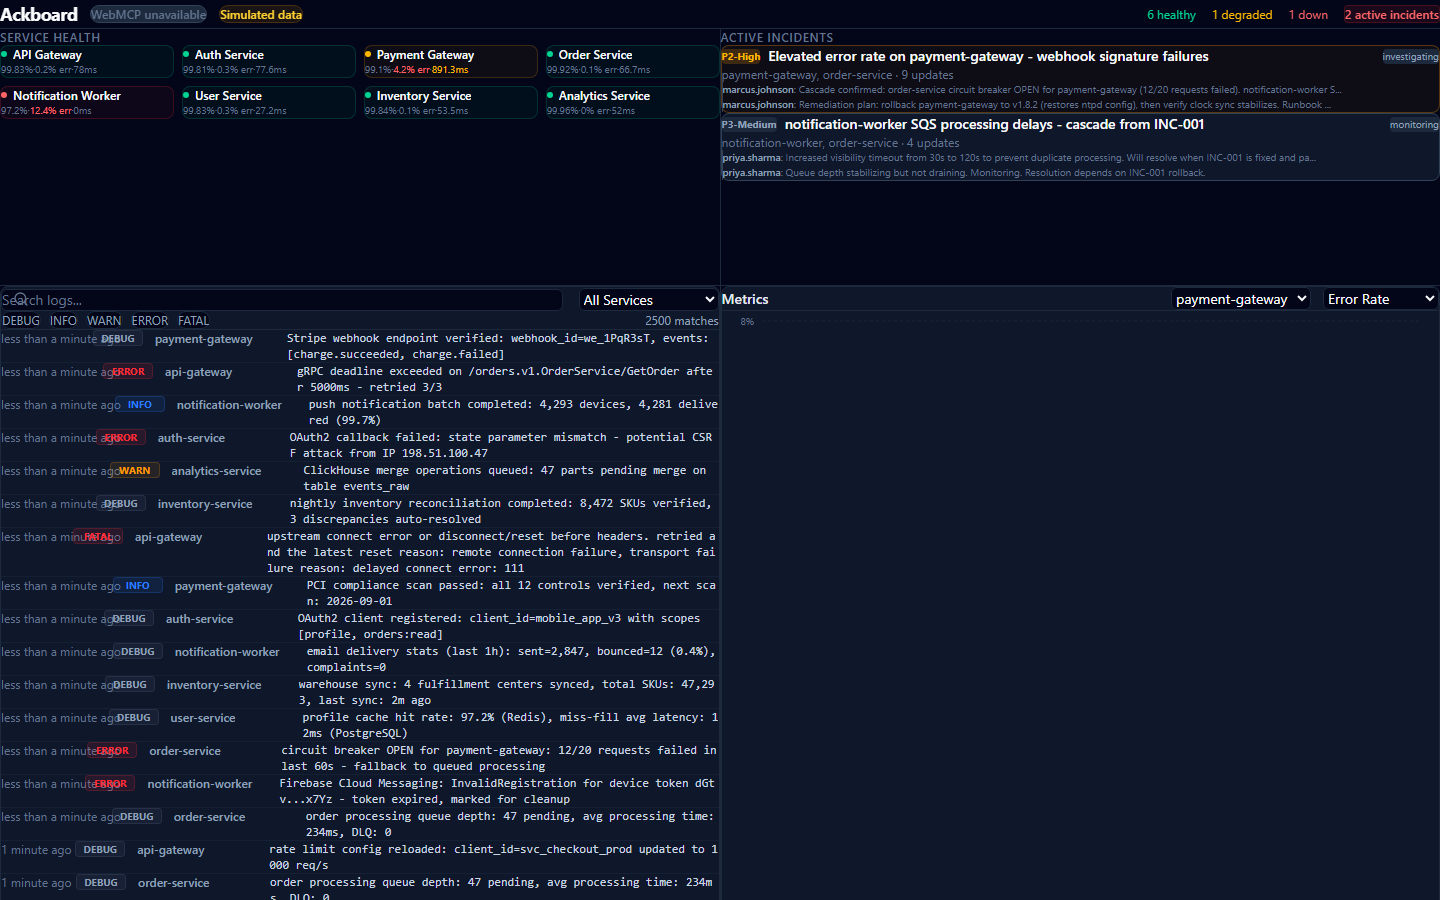
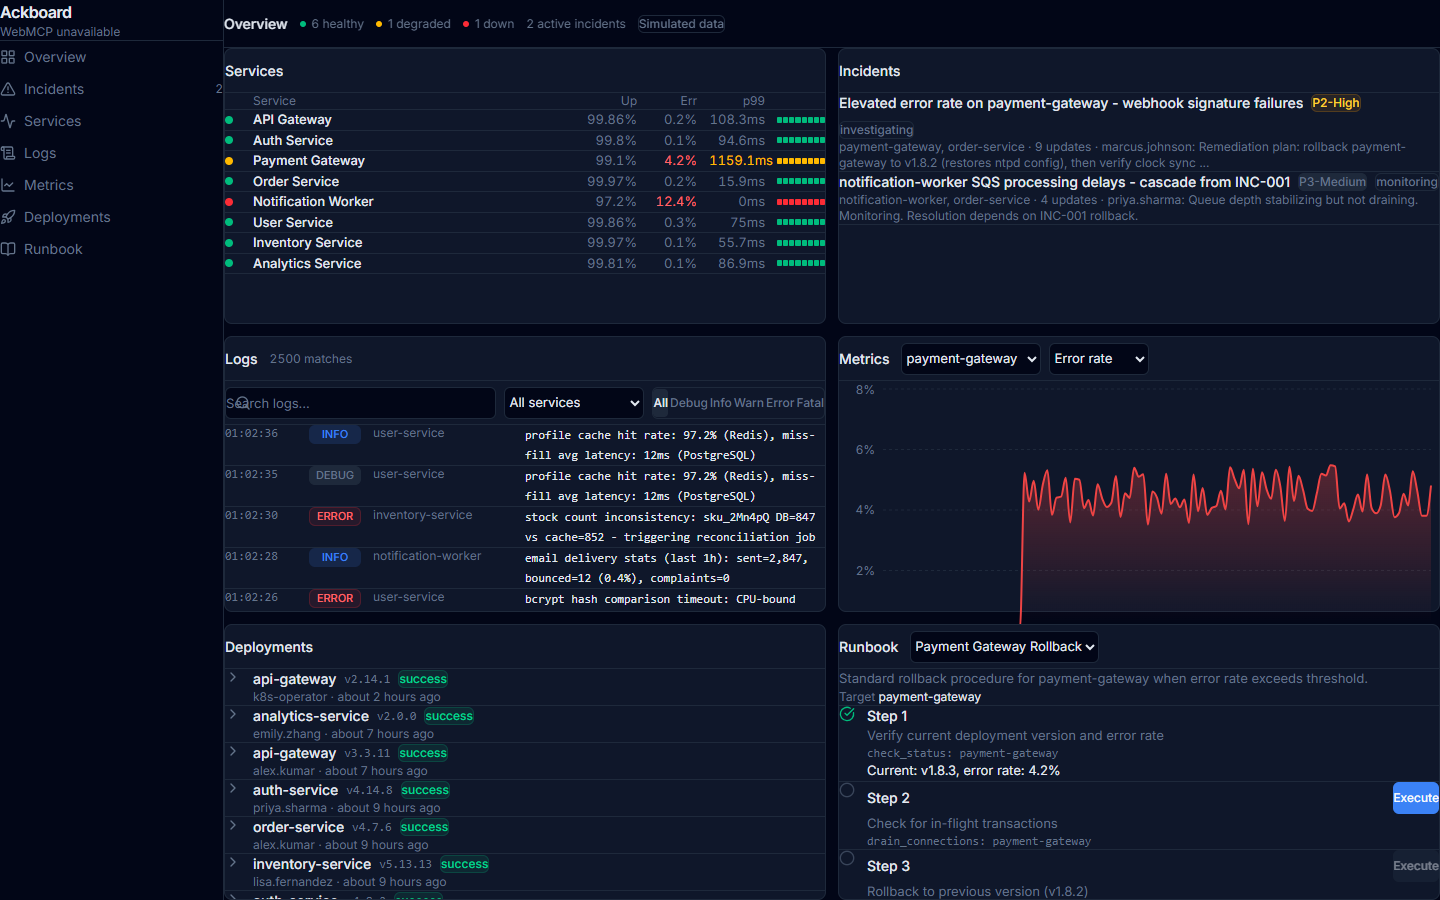
refresh dashboard screenshots

diff --git a/scripts/capture-docs.ts b/scripts/capture-docs.ts
@@ -1,0 +1,32 @@
+import path from 'node:path';
+import fs from 'node:fs';
+import { launchChrome, ensureDir, APP_ROOT, LIVE_URL } from './verify-lib.ts';
+
+async function main() {
+  const dest = path.join(APP_ROOT, 'docs', 'screenshots');
+  ensureDir(dest);
+  const { context, userDataDir } = await launchChrome({ enableWebmcp: false, headless: true });
+  const page = await context.newPage();
+
+  await page.setViewportSize({ width: 1440, height: 900 });
+  await page.goto(LIVE_URL, { waitUntil: 'networkidle' });
+  await page.waitForTimeout(1000);
+  const desktop = path.join(dest, 'desktop.png');
+  await page.screenshot({ path: desktop, fullPage: false });
+  console.log('saved', desktop);
+
+  await page.setViewportSize({ width: 390, height: 844 });
+  await page.goto(LIVE_URL, { waitUntil: 'networkidle' });
+  await page.waitForTimeout(600);
+  const mobile = path.join(dest, 'mobile.png');
+  await page.screenshot({ path: mobile, fullPage: false });
+  console.log('saved', mobile);
+
+  await context.close();
+  fs.rmSync(userDataDir, { recursive: true, force: true });
+}
+
+main().catch((err) => {
+  console.error(err);
+  process.exit(1);
+});
